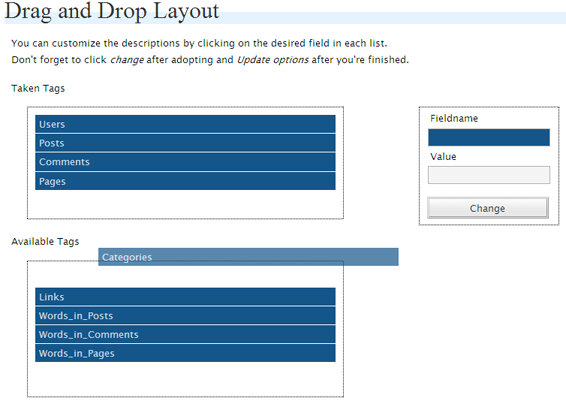
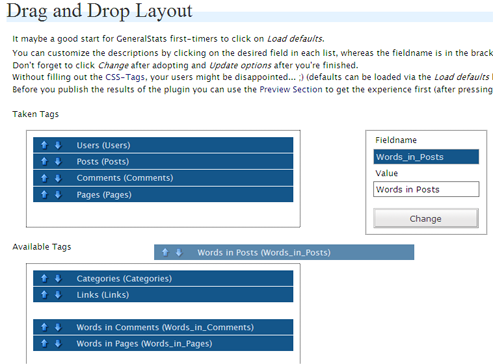
git-svn-id: https://plugins.svn.wordpress.org/generalstats/trunk@14319 b8457f37-d9ea-0310-8a92-e5e31aec5664

diff --git a/general-stats.php b/general-stats.php
@@ -5,7 +5,7 @@ Plugin Name: GeneralStats
 Plugin URI: http://www.neotrinity.at/projects/
 Description: Counts the number of users, categories, posts, comments, pages, links, words in posts, words in comments and words in pages. - Find the options <a href="options-general.php?page=generalstats/general-stats.php">here</a>!
 Author: Bernhard Riedl
-Version: 0.51
+Version: 0.52
 Author URI: http://www.neotrinity.at
 */
 
@@ -90,6 +90,7 @@ function generalstats_admin_head() {
       }
 
       #generalstats_DragandDrop_Change{
+		cursor : default;
 		margin-top: 10px;
 		background: url( images/fade-butt.png );
 		border: 3px double #999;
@@ -97,7 +98,7 @@ function generalstats_admin_head() {
 		border-top-color: #ccc;
 		color: #333;
 		padding: 0.25em;
-		width: 150px;
+		width: 162px;
 		text-align: center;
       }
 
@@ -106,6 +107,17 @@ function generalstats_admin_head() {
 		border: 3px double #ccc;
 		border-left-color: #999;
 		border-top-color: #999;
+	}
+
+	img.generalstats_arrowbutton {
+		vertical-align: bottom;
+		cursor: pointer;
+		margin-left: 5px;
+	}
+
+	img.generalstats_arrowbutton:hover {
+		border-bottom: 1px dotted #ffffff;
+		border-top: 1px dotted #ffffff;
 	}
 
       </style>
@@ -131,7 +143,7 @@ adds metainformation - please leave this for stats!
 */
 
 function generalstats_wp_head() {
-  echo("<meta name=\"GeneralStats\" content=\"0.51\"/>");
+  echo("<meta name=\"GeneralStats\" content=\"0.52\"/>");
 }
 
 /*
@@ -520,15 +532,21 @@ function createGeneralStatsOptionPage() {
 
     $beforeKey="Tags_";
 
+    $plugin_url = get_settings('siteurl') . '/wp-content/plugins/generalstats/';
+
     foreach ($orders as $key => $order) {
         $tag=get_option($fieldsPre.$fields[$key].$fieldsPost_Description). ' ('. $fields[$key] .')';
+	  $upArrow='<img class="generalstats_arrowbutton" src="'.$plugin_url.'arrow_up_blue.png" onclick="generalstats_moveElementUp('.$key.');" alt="move element up" />';
+	  $downArrow='<img class="generalstats_arrowbutton" style="margin-right:20px" src="'.$plugin_url.'arrow_down_blue.png" onclick="generalstats_moveElementDown('.$key.');" alt="move element down" />';
         $available_Fields=GeneralStats_array_remval($key, $available_Fields);
-        $listTaken.= $before_tag. "\"".$beforeKey.$key."\">". $tag.$after_tag."\n";
+        $listTaken.= $before_tag. "\"".$beforeKey.$key."\">".$upArrow.$downArrow.$tag.$after_tag."\n";
     }
 
     foreach($available_Fields as $key){
         $tag=get_option($fieldsPre.$fields[$key].$fieldsPost_Description). ' ('. $fields[$key]. ')';
-	  $listAvailable.= $before_tag. "\"".$beforeKey.$key."\">". $tag.$after_tag."\n";
+	  $upArrow='<img class="generalstats_arrowbutton" src="'.$plugin_url.'arrow_up_blue.png" onclick="generalstats_moveElementUp('.$key.');" alt="move element up" />';
+	  $downArrow='<img class="generalstats_arrowbutton" style="margin-right:20px" src="'.$plugin_url.'arrow_down_blue.png" onclick="generalstats_moveElementDown('.$key.');" alt="move element down" />';
+	  $listAvailable.= $before_tag. "\"".$beforeKey.$key."\">".$upArrow.$downArrow.$tag.$after_tag."\n";
     }
 
     $listTakenListeners="";
@@ -568,11 +586,9 @@ function createGeneralStatsOptionPage() {
 
     <div class="wrap">
 
-       <form method="post">
-
     <div class="submit">
-      <input type="submit" name="info_update" value="<?php _e('Update options') ?>" />
-      <input type="submit" name="load_default" value="<?php _e('Load defaults') ?>" />
+      <input type="button" id="info_update_click" name="info_update_click" value="<?php _e('Update options') ?>" />
+      <input type="button" id="load_default_click" name="load_default_click" value="<?php _e('Load defaults') ?>" />
     </div>
 
          <a name="<?php echo($fieldsPre); ?>Drag_and_Drop"></a><h2>Drag and Drop Layout</h2>
@@ -595,17 +611,17 @@ function createGeneralStatsOptionPage() {
 
      <fieldset>
         <legend><label for="generalstats_DragandDrop_Edit_Text">Fieldname</label></legend>
-	  <input onfocus="document.getElementsByName('generalstats_DragandDrop_Edit_Text')[0].focus(); " style="color: #c3def1; background-color: #14568a" name="generalstats_DragandDrop_Edit_Label" id="generalstats_DragandDrop_Edit_Label" type="text" size="20" maxlength="20" readonly="readonly" />
+	  <input disabled="disabled" style="color: #c3def1; background-color: #14568a" name="generalstats_DragandDrop_Edit_Label" id="generalstats_DragandDrop_Edit_Label" type="text" size="20" maxlength="20" />
      </fieldset>
 
      <fieldset>
         <legend><label for="generalstats_DragandDrop_Edit_Text">Value</label></legend>
-        <input name="generalstats_DragandDrop_Edit_Text" id="generalstats_DragandDrop_Edit_Text" type="text" size="20" maxlength="20" />
+        <input onkeyup="if(event.keyCode==13) generalstats_changeDragandDropEdit();" name="generalstats_DragandDrop_Edit_Text" id="generalstats_DragandDrop_Edit_Text" disabled="disabled" type="text" size="20" maxlength="20" />
      </fieldset>
 
      <fieldset>
 	  <legend style="display:none; color:#14568a" id="generalstats_DragandDrop_Edit_Message" name="generalstats_DragandDrop_Edit_Message"><em>Successfully Changed!</em></legend>
-        <div id="generalstats_DragandDrop_Change">Change</div>
+        <input type="button" id="generalstats_DragandDrop_Change" value="Change" />
      </fieldset>
 
      </div>
@@ -617,11 +633,13 @@ function createGeneralStatsOptionPage() {
      </fieldset>
      <?php echo($listAvailable); ?>
 
+       <form method="post">
+
           <h2>Tags</h2>
 
      <fieldset>
         <legend>This is the static customizing section, forming the mirror of the <a href="#<?php echo($fieldsPre); ?>Drag_and_Drop">Drag and Drop Layout</a> section.</legend>
-        <legend>Changes to positions which you make here are only reflected in the dynamic section after pressing <em>Update options</em>.</legend>
+        <legend>Changes to positions which you make here are only reflected in the <a href="#<?php echo($fieldsPre); ?>Drag_and_Drop">dynamic section</a> after pressing <em>Update options</em>.</legend>
         <legend>Without filling out the <a href="#<?php echo($fieldsPre); ?>CSS_Tags">CSS-Tags</a>, your users might be disappointed... ;) (defaults can be loaded via the <em>Load defaults</em> button)</legend>
         <legend>Before you publish the results of the plugin you can use the <a href="#<?php echo($fieldsPre); ?>Preview">Preview Section</a> to get the experience first (after pressing <em>Update options</em>).<br /><br /></legend>
      </fieldset>
@@ -790,6 +808,7 @@ function createGeneralStatsOptionPage() {
 	*/
 
 	var sequence=Sortable.sequence('listTaken');
+
 	if (sequence.length>0) {
 		var list = escape(Sortable.sequence('listTaken'));
 		var sorted_ids = unescape(list).split(',');
@@ -844,6 +863,88 @@ function createGeneralStatsOptionPage() {
 	}
 
 	/*
+	moves an element in a drag and drop one position up
+	*/
+
+	function generalstats_moveElementUpforList(list, key) {
+		var sequence=Sortable.sequence(list);
+		var newsequence=[];
+		var reordered=false;
+
+		//move only, if there is more than one element in the list
+		if (sequence.length>1) for (var j = 0; j < sequence.length; j++) {
+
+			//move, if not already first element, the element is not null
+			if (j>0 && sequence[j].length>0 && sequence[j]==key) {
+				var temp=newsequence[j-1];
+				newsequence[j-1]=key;
+				newsequence[j]=temp;
+				reordered=true;
+			}
+			
+			//if element not found, just copy array
+			else {
+				newsequence[j]=sequence[j];
+			}
+		}
+
+		if (reordered) Sortable.setSequence (list,newsequence);
+		return reordered;
+	}
+
+	/*
+	handles moving up for both lists
+	*/
+
+	function generalstats_moveElementUp(key) {
+		if (generalstats_moveElementUpforList('listTaken', key)==false)
+			generalstats_moveElementUpforList('listAvailable', key);
+
+		generalstats_updateDragandDropLists();
+	}
+
+	/*
+	moves an element in a drag and drop one position down
+	*/
+
+	function generalstats_moveElementDownforList(list, key) {
+		var sequence=Sortable.sequence(list);
+		var newsequence=[];
+		var reordered=false;
+
+		//move, if not already last element, the element is not null
+		if (sequence.length>1) for (var j = 0; j < sequence.length; j++) {
+
+			//move, if not already first element, the element is not null
+			if (j<(sequence.length-1) && sequence[j].length>0 && sequence[j]==key) {
+				newsequence[j+1]=key;
+				newsequence[j]=sequence[j+1];
+				reordered=true;
+				j++;
+			}
+			
+			//if element not found, just copy array
+			else {
+				newsequence[j]=sequence[j];
+			}
+		}
+
+		if (reordered) Sortable.setSequence (list,newsequence);
+		return reordered;
+	}
+
+	/*
+	handles moving down for both lists
+	*/
+
+	function generalstats_moveElementDown(key) {
+		if (generalstats_moveElementDownforList('listTaken', key)==false)
+			generalstats_moveElementDownforList('listAvailable', key);
+
+		generalstats_updateDragandDropLists();
+	}
+
+	/*
 	load selected field in edit panel
 	*/
 
@@ -854,6 +955,7 @@ function createGeneralStatsOptionPage() {
 			if (keys[j]==key) {
 				document.getElementsByName('generalstats_DragandDrop_Edit_Label')[0].value = fields[j];
 				document.getElementsByName('generalstats_DragandDrop_Edit_Text')[0].value = document.getElementsByName(fieldPre+fields[j]+'_Description')[0].value; 
+				document.getElementsByName('generalstats_DragandDrop_Edit_Text')[0].disabled=null;
 				document.getElementsByName('generalstats_DragandDrop_Edit_Text')[0].focus();
 			}
 		}
@@ -874,7 +976,8 @@ function createGeneralStatsOptionPage() {
 			//adopt drag and drop table
 			for (var j = 0; j < fields.length; j++) {
 				if (fields[j]==fieldName) {
-					document.getElementById('Tags_'+keys[j]).firstChild.nodeValue= document.getElementsByName('generalstats_DragandDrop_Edit_Text')[0].value+' ('+fieldName+')';
+					document.getElementById('Tags_'+keys[j]).childNodes[2].nodeValue= document.getElementsByName('generalstats_DragandDrop_Edit_Text')[0].value+' ('+fieldName+')';
+					new Effect.Highlight(document.getElementById('Tags_'+keys[j]),{startcolor:'#30df8b'});
 				}
 			}
 
@@ -889,6 +992,9 @@ function createGeneralStatsOptionPage() {
 	new Draggable('generalstats_DragandDrop');
 
       Event.observe('generalstats_DragandDrop_Change', 'click', function(e){ generalstats_changeDragandDropEdit(); });
+
+      Event.observe('info_update_click', 'click', function(e){ document.getElementsByName('info_update')[0].click(); });
+      Event.observe('load_default_click', 'click', function(e){ document.getElementsByName('load_default')[0].click(); });
 
       <?php echo($listTakenListeners); ?>
       <?php echo($listAvailableListeners); ?>
